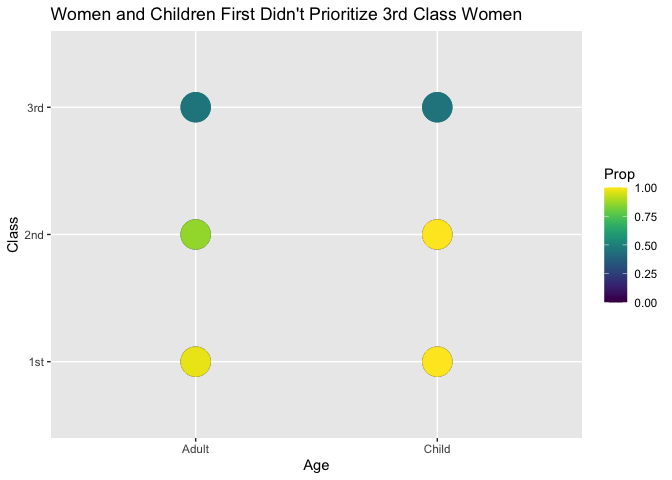
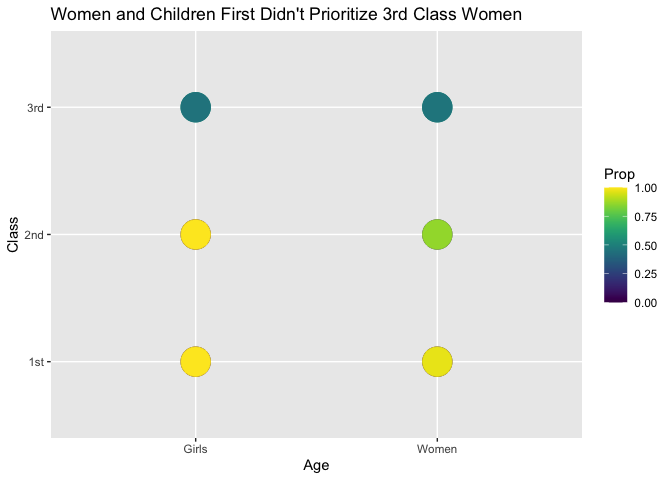
Adjusted graph

diff --git a/challenges/c01-titanic-assignment.md b/challenges/c01-titanic-assignment.md
@@ -284,6 +284,7 @@ df_prop %>%
 df_prop %>%
   filter(Sex == "Female") %>%
   filter (Class != "Crew") %>%
+  mutate(Age = ifelse(Age == "Adult", "Women", "Girls")) %>%
   ggplot() +
   geom_point(mapping = aes(x = Age, y = Class, color = Prop), size = 10) +
   scale_color_viridis() +
